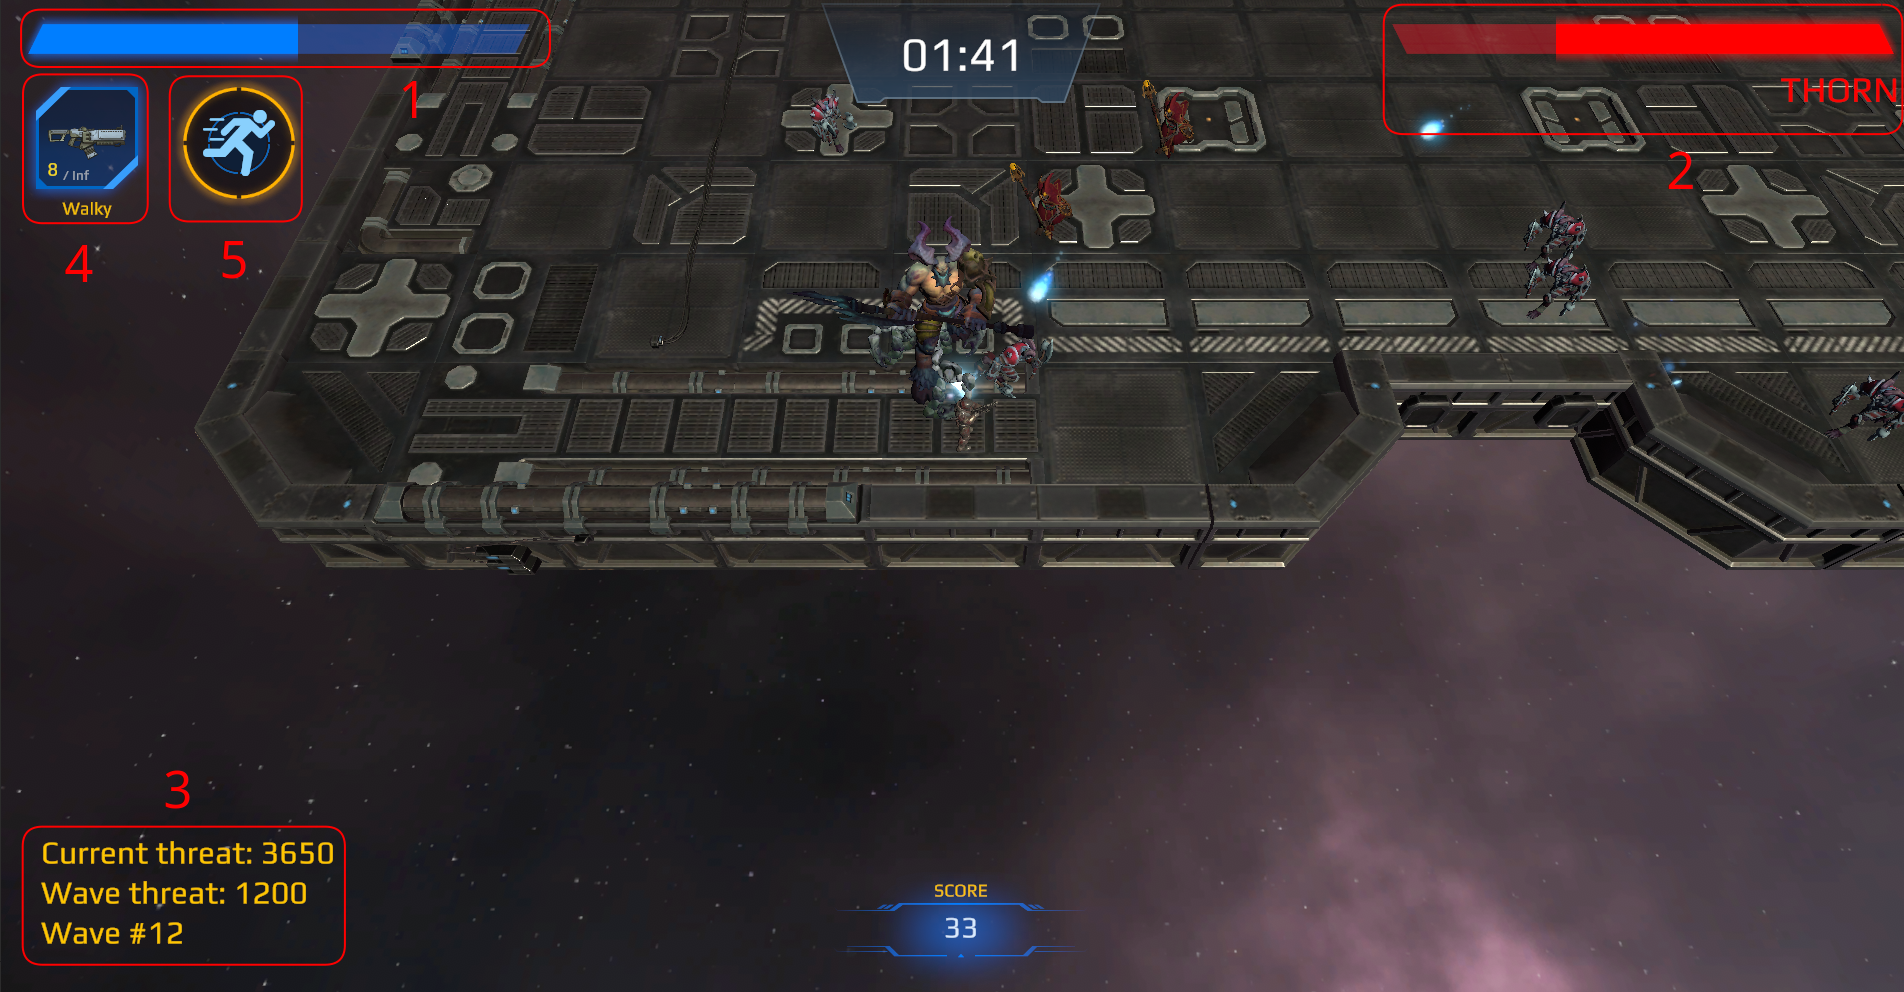
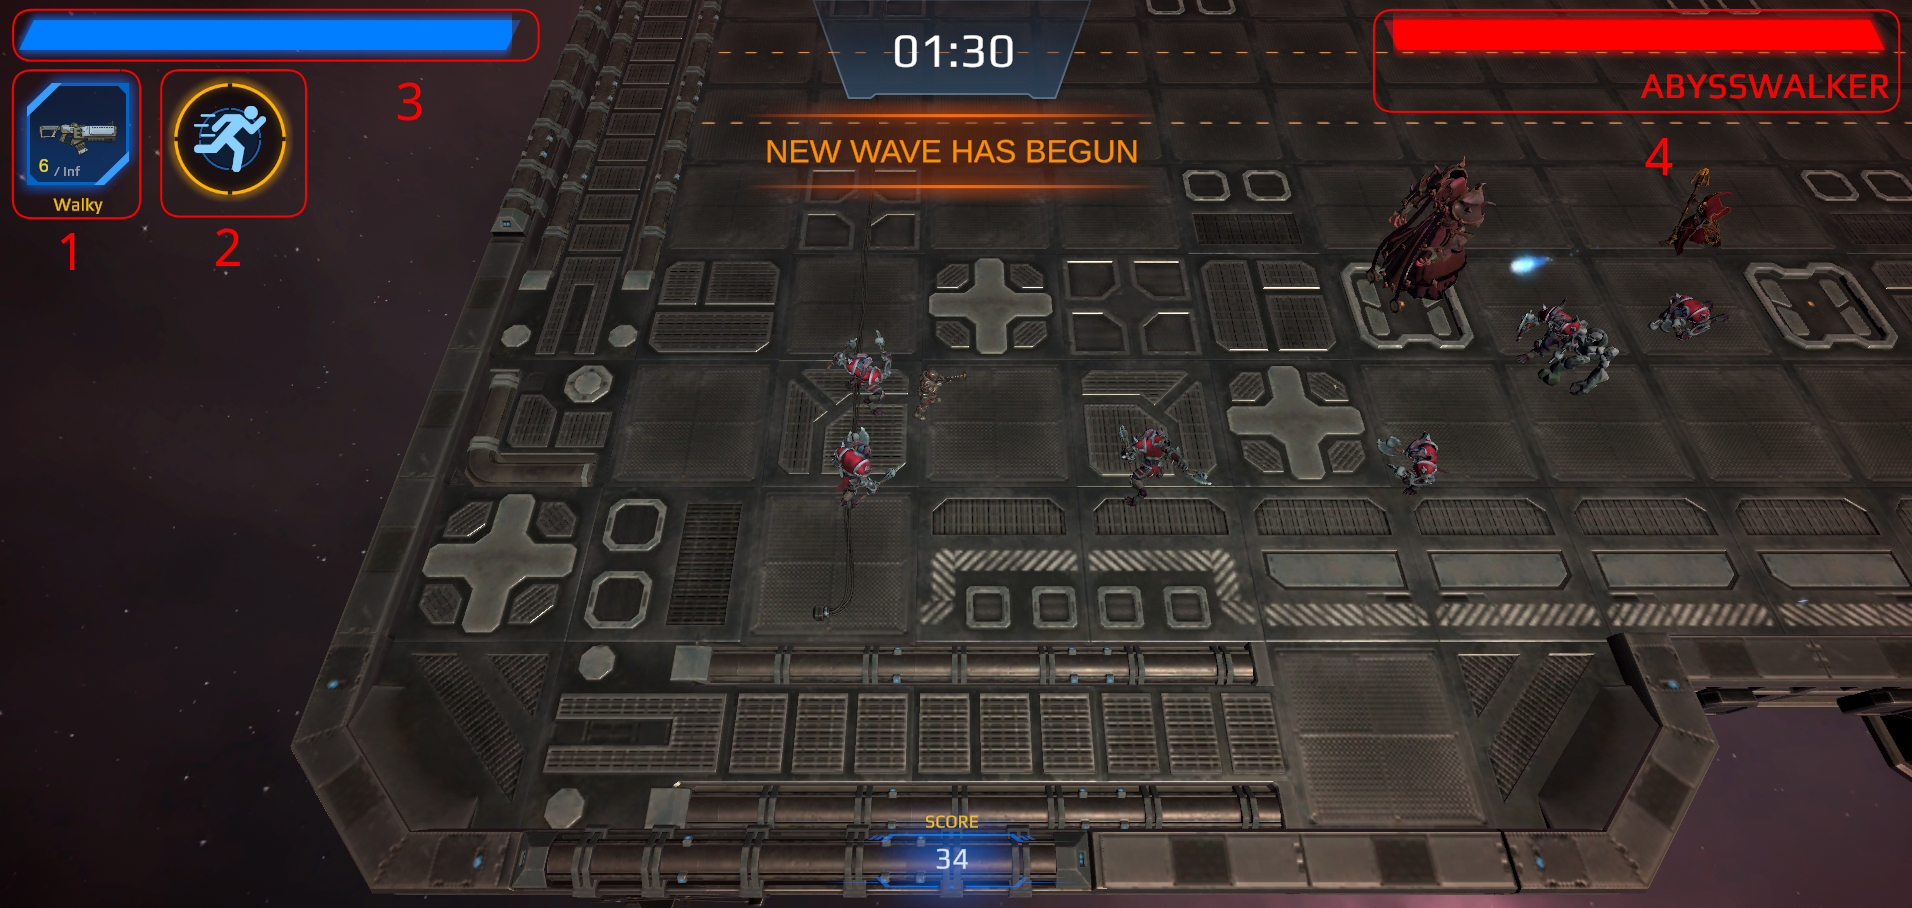
Doc fixes;

diff --git a/DOCUMENTATION.md b/DOCUMENTATION.md
@@ -17,15 +17,27 @@ to his address private keys. After success authentication user can start game.
   <img width="800" src="https://github.com/baking-bad/tezos-unity-game/blob/feat/docs/images/game.png?raw=true">
 </p>
 
-Player spawns with one low-DPS default weapon (Walky, #4). The goal of the game is to survive as long, as
-possible. Current player HP displays on top left corner (#1). During game session different amount and types of mobs
-will be spawned depend on current threat value (#3). There's a certain chance of falling out some drop after killing a
-mob: additional HP, armor and various ammo. Additionally to common creeps at every 10 waves Boss will be spawned - mega
-creep with increased HP, current level of which you can see on #2. Аfter killing a boss, there's a chance on drop
-another more powerful weapons and NFT. 
+Player spawns with one low-DPS default weapon (Walky, #1). The goal of the game is to survive as long, as
+possible.
+
+Controls list:
+
+| Type         | Type       |
+|--------------|------------|
+| Moving       | W, A, S, D |
+| Shot         | LBM        |
+| Swap gun     | E          |
+| Acceleration | Space      |
+| Pause menu   | Esc        |
+
+Once in 4 seconds player can use acceleration, cooldown displays in #2. Current player HP displays on top left
+corner (#3). There's a certain chance of falling out some drop after killing a mob: additional HP, armor and various
+ammo. Additionally to common creeps at every 10 waves Boss will be spawned - mega creep with increased HP, current level
+of which you can see on #4. Аfter killing a boss, there's a chance on drop another more powerful weapons and NFT.
 All NFT's are [FA2](https://gitlab.com/tezos/tzip/-/blob/master/proposals/tzip-12/tzip-12.md) tokens and has their own
 different drop chances, because all of them can enhance player in-game stats.
-For example Armor increases max HP level by 10%. Here is the full list of all available NFT's with their drop chances:
+For example Armor reduces the damage received by the player by 10%. Here is the full list of all available NFT's with
+their drop chances:
 
 | Token      | Type      |                                    Description                                     |                   Drop chance |
 |------------|-----------|:----------------------------------------------------------------------------------:|------------------------------:|
@@ -77,10 +89,15 @@ When equipped, players can see how this tokens enhance players properties in
 effects tab.
 
 <p align="center">
+  <img width="800" src="https://github.com/baking-bad/tezos-unity-game/blob/feat/docs/images/effects.png?raw=true">
+</p>
+
+And last tab - players own all-time stats.
+
+<p align="center">
   <img width="800" src="https://github.com/baking-bad/tezos-unity-game/blob/feat/docs/images/stats.png?raw=true">
 </p>
 
-And last tab - players own stats reduced from all matches.
 
 ## Developers docs
 
